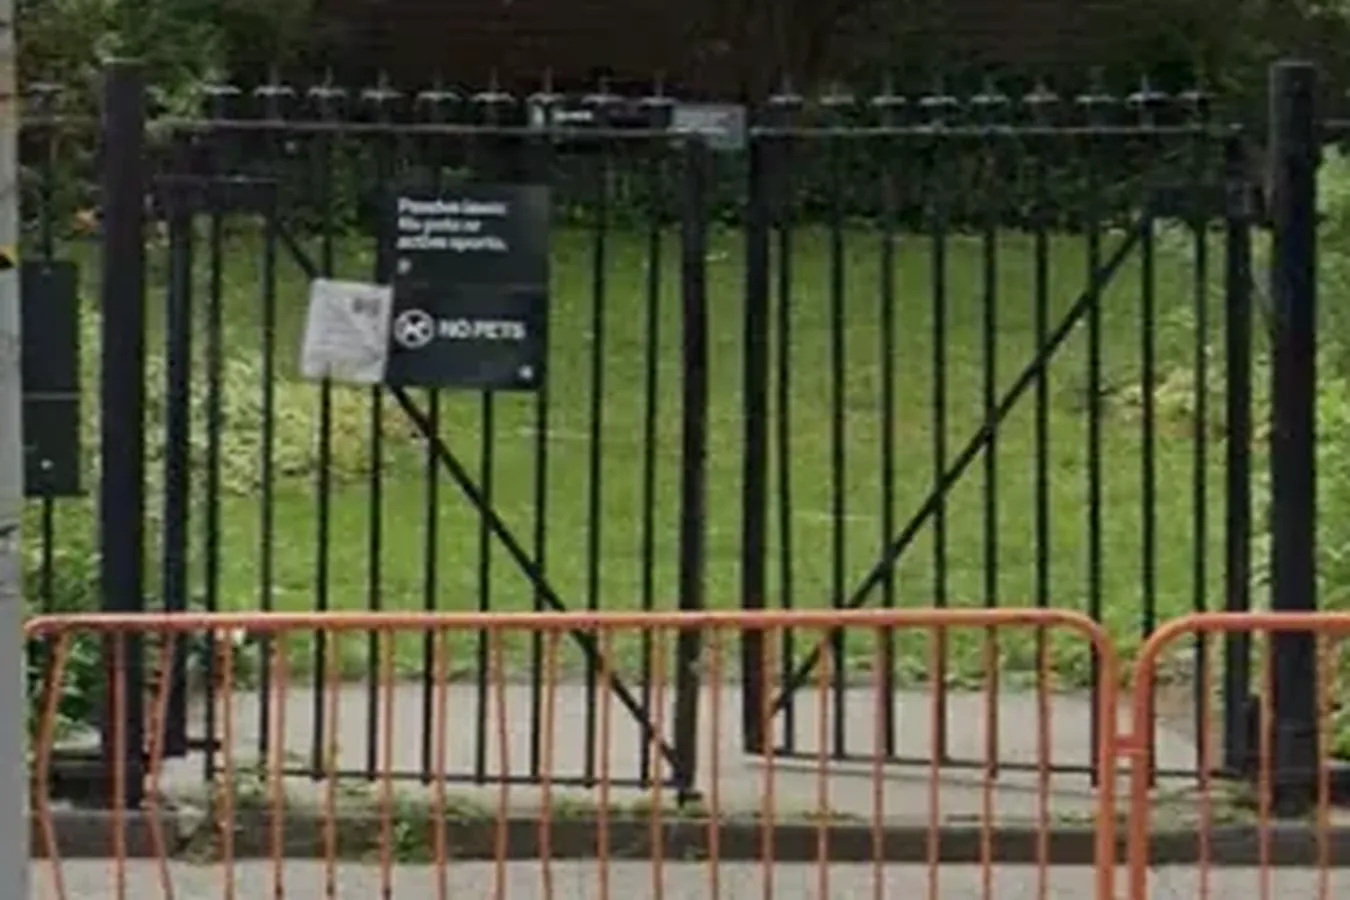
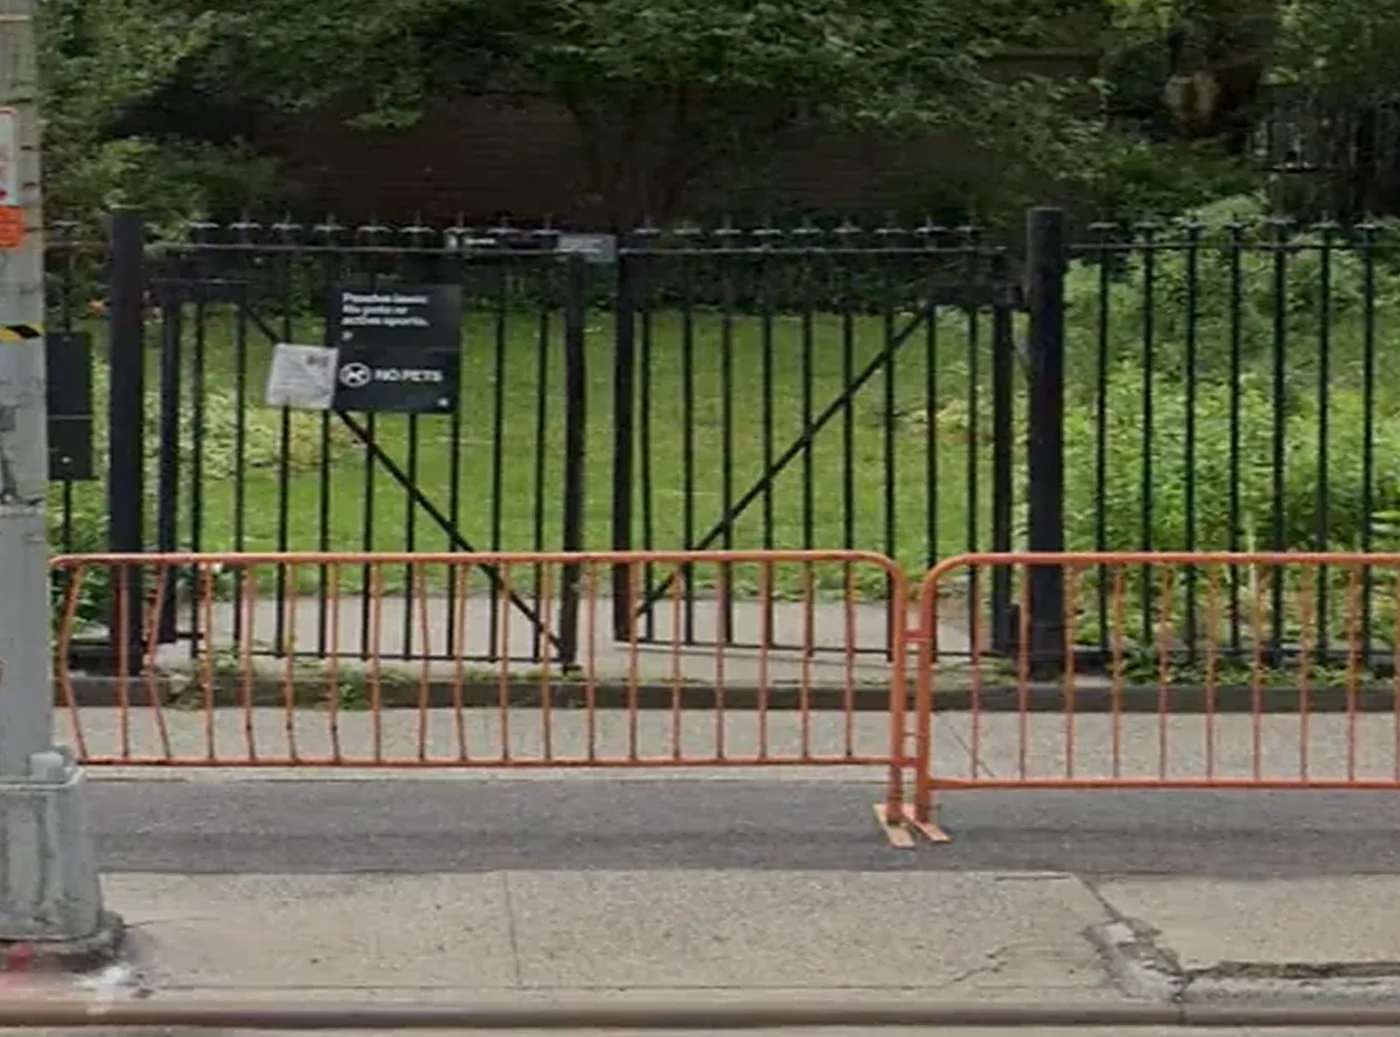
Portfolio: rebuild St. Vartan slider from measured landmarks, wider before view
Reframes the pair on the gate posts and fence top/base so the two layers register,
widens the window to include the sidewalk and the street context in the before,
drops the diamond-grid photo, and lets each slider size to its own image aspect.
Billings lawn was seeded, not sodded.

diff --git a/portfolio/projects.js b/portfolio/projects.js
@@ -66,10 +66,6 @@ const PROJECTS = [
         "Completed: level entrance meeting the sidewalk"
       ],
       [
-        "sv04",
-        "Completed: diamond-grid stabilized surface with granite block edging"
-      ],
-      [
         "sv05",
         "Completed: path across the lawn"
       ]
@@ -79,7 +75,7 @@ const PROJECTS = [
     "title": "Billings Lawn Restoration, Fort Tryon Park",
     "short": "Billings Lawn",
     "meta": "Designer & Project Manager · Privately funded ($50K Con Edison grant) · Manhattan · 2026",
-    "desc": "Restoration of the heavily used Billings Lawn, funded by a $50,000 grant from Con Edison. Led the design and project management: a new french drain system that drains the compacted lawn after rain events and lets stormwater infiltrate back into the soil, built as perforated pipe surrounded by #67 crushed stone wrapped in geotextile fabric, with clean fill above and sod on top. The project also included soil aeration, regrading to a consistent slope, new sod throughout, and tree protection for the two large canopy trees that anchor the site. The lawn now drains correctly and the restoration has held. Nearby, a failing section of asphalt path with a recurring sinkhole was torn up and replaced with a planting bed: designed as a small rain garden, then adjusted during construction to a regular planting bed.",
+    "desc": "Restoration of the heavily used Billings Lawn, funded by a $50,000 grant from Con Edison. Led the design and project management: a new french drain system that drains the compacted lawn after rain events and lets stormwater infiltrate back into the soil, built as perforated pipe surrounded by #67 crushed stone wrapped in geotextile fabric, with clean fill above and grass seed on top. The project also included soil aeration, regrading to a consistent slope, new grass seed throughout, and tree protection for the two large canopy trees that anchor the site. The lawn now drains correctly and the restoration has held. Nearby, a failing section of asphalt path with a recurring sinkhole was torn up and replaced with a planting bed: designed as a small rain garden, then adjusted during construction to a regular planting bed.",
     "hero": "bl02",
     "compare": ["blb", "bla"],
     "pages": [
@@ -89,7 +85,7 @@ const PROJECTS = [
       ],
       [
         "bl02",
-        "After: restored lawn with new sod and french drain system"
+        "After: restored lawn with new grass seed and french drain system"
       ],
       [
         "bl03",

diff --git a/portfolio/index.html b/portfolio/index.html
@@ -68,9 +68,10 @@
     @media (max-width: 480px) { .project .body { padding: 1rem 1.1rem 1.1rem; } .thumbs { padding: 0 1.1rem 1.1rem; } }
 
     /* Before/after compare slider */
-    .compare { position: relative; width: 100%; aspect-ratio: 3 / 2; max-height: 600px; overflow: hidden; background: #eee; touch-action: none; }
-    .compare img { position: absolute; inset: 0; width: 100%; height: 100%; object-fit: cover; }
-    .compare .over { clip-path: inset(0 calc(100% - var(--pos, 50%)) 0 0); }
+    /* The base image sets the box height, so each pair keeps its own framing */
+    .compare { position: relative; width: 100%; overflow: hidden; background: #eee; touch-action: none; }
+    .compare img { display: block; width: 100%; height: auto; }
+    .compare .over { position: absolute; inset: 0; height: 100%; object-fit: cover; clip-path: inset(0 calc(100% - var(--pos, 50%)) 0 0); }
     .compare input[type=range] { position: absolute; inset: 0; width: 100%; height: 100%; opacity: 0; cursor: ew-resize; margin: 0; -webkit-appearance: none; }
     .cmp-handle { position: absolute; top: 0; bottom: 0; left: var(--pos, 50%); width: 2px; background: #fff; box-shadow: 0 0 6px rgba(0,0,0,0.5); pointer-events: none; }
     .cmp-handle::after { content: "\2194"; position: absolute; top: 50%; left: 50%; transform: translate(-50%, -50%); width: 34px; height: 34px; border-radius: 50%; background: #fff; color: #333; font-size: 1rem; display: flex; align-items: center; justify-content: center; box-shadow: 0 1px 6px rgba(0,0,0,0.4); }
